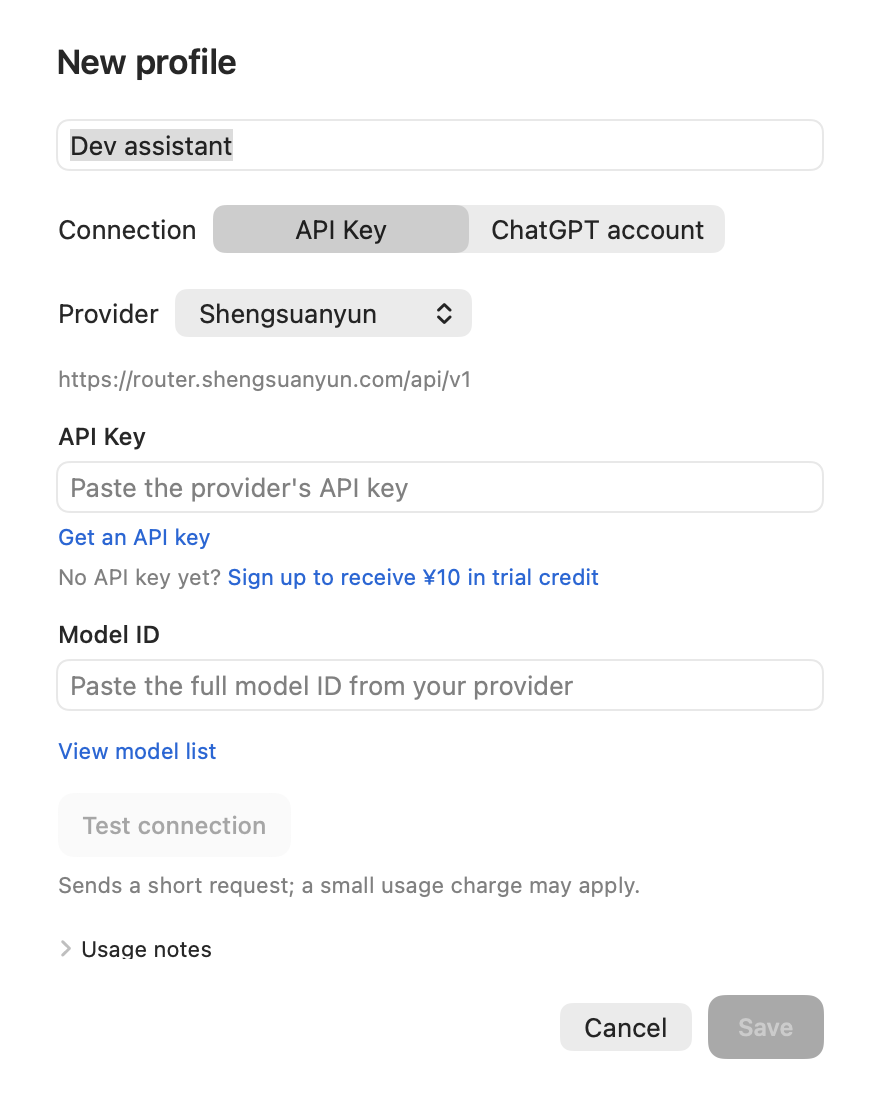
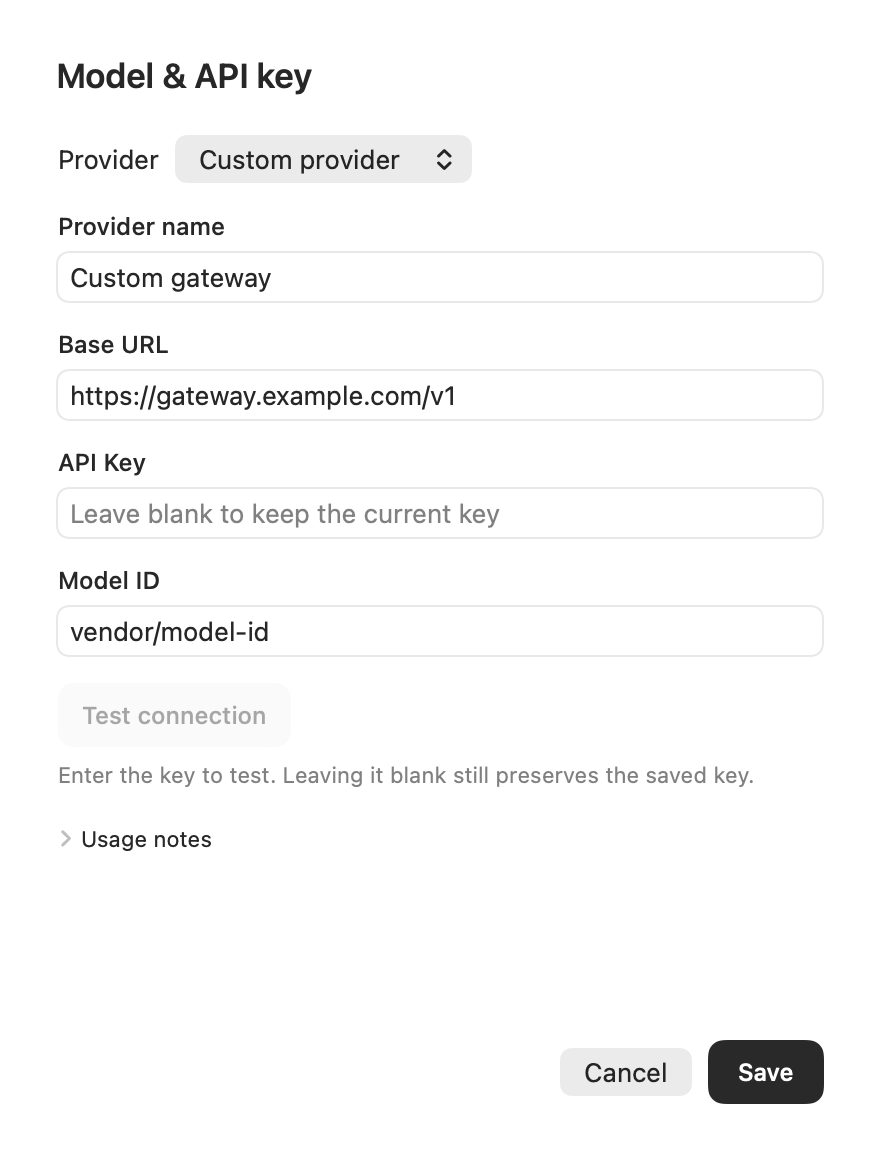
docs: make BYOK guidance provider-neutral

diff --git a/scripts/render-docs.swift b/scripts/render-docs.swift
@@ -40,10 +40,12 @@ struct DocumentationImages {
             MultiApplicationDashboard(codex: codex, claude: claude, workbuddy: workbuddy,
                                       wechat: wechat, selection: .constant(application))
         }
-        try render(dashboard(.codex), size: CGSize(width: 960, height: 600), to: output.appendingPathComponent("overview.png"))
-        try render(ProfileEditor(profile: nil, model: codex, name: Texts.t("开发助手", "Dev assistant")),
-                   size: CGSize(width: 440, height: 550), to: output.appendingPathComponent("api-key.png"))
-        try render(dashboard(.wechat), size: CGSize(width: 960, height: 600), to: output.appendingPathComponent("wechat.png"))
+        let apiOnly = CommandLine.arguments.contains("--api-only")
+        if !apiOnly { try render(dashboard(.codex), size: CGSize(width: 960, height: 600), to: output.appendingPathComponent("overview.png")) }
+        guard let apiProfile = codex.profiles.first(where: { $0.apiProvider != nil }) else { fatalError("Missing API example") }
+        try render(ProviderConnectionEditor(profile: apiProfile, model: codex),
+                   size: CGSize(width: 440, height: 580), to: output.appendingPathComponent("api-key.png"))
+        if !apiOnly { try render(dashboard(.wechat), size: CGSize(width: 960, height: 600), to: output.appendingPathComponent("wechat.png")) }
     }
 
     @MainActor private static func render<Content: View>(_ content: Content, size: CGSize, to url: URL) throws {

diff --git a/README.en.md b/README.en.md
@@ -68,22 +68,24 @@ This preview uses an ad-hoc signature and is not Apple-notarized. If macOS block
 
 A profile name is your label, not an authenticated account identity. “Running” only means the process exists; it does not confirm sign-in or a working model connection. Existing windows can be brought forward without importing their credentials or history.
 
-## API keys and custom models
+## BYOK: bring your own API key
 
 <p align="center">
-  <img src="docs/images/en/api-key.png" alt="API key profile form with provider, key, model ID and connection test" width="440">
+  <img src="docs/images/en/api-key.png" alt="BYOK settings with a custom provider, base URL, API key, model ID and connection test" width="440">
 </p>
 
-Choose **Shengsuanyun** for a preset endpoint or **Custom provider** for your own gateway. Paste a key and the full model ID supplied by your provider, then save the connection as a separate profile.
+ShadowApp supports **BYOK (Bring Your Own Key)**. Use your chosen provider or self-hosted gateway, provided its API and model are compatible with the target client.
+
+Choose **API Key → Custom provider**, then enter the provider name, base URL, API key and full model ID to save the connection as a separate profile.
 
 | Setting | Codex | Claude |
 | --- | --- | --- |
 | Required protocol | OpenAI **Responses API** | **Anthropic Messages API** |
-| Shengsuanyun base URL | `https://router.shengsuanyun.com/api/v1` | `https://router.shengsuanyun.com/api` |
+| Base URL | The Responses API base URL supplied by your provider | The Anthropic Messages root URL supplied by your provider, without `/v1` |
 | Model ID | Full model ID supported by the provider | Claude model or its gateway routing ID |
 | Where to start | Select **Codex** and create a new chat | Use the configured third-party inference provider |
 
-[Get a Shengsuanyun API key](https://console.shengsuanyun.com/user/keys) · [Browse model IDs](https://global.modelmesh.info/model)
+Get the API key, endpoint and model ID from your chosen provider's console and documentation.
 
 - **Try the connection.** Once the fields are complete, choose “Test connection”. This sends a short request and may incur a small charge. Saving alone does not run a test.
 - **Match the protocol.** A Chat Completions-only endpoint is not sufficient for Codex. Streaming and tool use must also be compatible; a basic connection test does not establish full feature support. Renaming a DeepSeek or GLM model to Claude will not make it compatible with Claude Desktop.

diff --git a/README.md b/README.md
@@ -66,22 +66,24 @@
 
 空间名称只是你自己的标签，不代表已经登录某个账号。「运行中」表示进程存在，不代表账号已登录或模型调用成功。已有窗口可以直接显示，ShadowApp 不自动导入其登录信息或聊天记录。
 
-## 使用 API Key 和自定义模型
+## BYOK：使用自己的 API Key
 
 <p align="center">
-  <img src="docs/images/zh/api-key.png" alt="新建 API Key 空间：供应商、Key、模型 ID 与测试连接" width="440">
+  <img src="docs/images/zh/api-key.png" alt="BYOK 配置：自定义供应商、接口地址、API Key、模型 ID 与测试连接" width="440">
 </p>
 
-选择 **胜算云** 使用预填地址，或选择 **自定义供应商** 填写自己的网关。粘贴 API Key 和供应商提供的完整模型 ID，即可保存为独立空间。
+ShadowApp 支持 **BYOK（Bring Your Own Key，自带 API Key）**：使用你选择的供应商或自建网关，只需接口和模型兼容对应客户端。
+
+在 **API Key → 自定义供应商** 中填写供应商名称、Base URL、API Key 和完整模型 ID，即可保存为独立空间。
 
 | 设置 | Codex | Claude |
 | --- | --- | --- |
 | 所需协议 | OpenAI **Responses API** | **Anthropic Messages API** |
-| 胜算云 Base URL | `https://router.shengsuanyun.com/api/v1` | `https://router.shengsuanyun.com/api` |
+| Base URL | 供应商提供的 Responses API 地址 | 供应商提供的 Anthropic Messages 根地址，不带 `/v1` |
 | 模型 ID | 供应商支持的完整模型 ID | Claude 模型或相应网关路由 ID |
 | 使用入口 | 打开后选择 **Codex**，新建聊天 | 使用已配置的第三方推理供应商 |
 
-[获取胜算云 API Key](https://console.shengsuanyun.com/user/keys) · [查看模型列表](https://global.modelmesh.info/model)
+API Key、接口地址和模型 ID 以你所用供应商的控制台和文档为准。
 
 - **先试再保存**：填写完整后可点「测试连接」。测试会发送一条简短请求，可能产生少量费用；保存本身不发起测试。
 - **协议要匹配**：只支持 Chat Completions 的接口不能直接用于 Codex。实际使用还需要流式输出、工具调用等兼容性；基础连接成功不代表全部功能可用。Claude 不支持把 DeepSeek / GLM 的名称改成 Claude 来使用。

diff --git a/docs/images/README.md b/docs/images/README.md
@@ -12,13 +12,15 @@ The other images render the production SwiftUI views with disposable example dat
 | --- | --- |
 | `overview.png` | 中文 README 首页实际界面图 / User-provided screenshot for the Chinese README |
 | `zh/overview.png`, `en/overview.png` | 应用侧栏与示例空间 / Sidebar and example profiles |
-| `zh/api-key.png`, `en/api-key.png` | 新建 API Key 空间 / API-key profile editor |
+| `zh/api-key.png`, `en/api-key.png` | 自定义供应商 BYOK 配置 / Custom-provider BYOK settings |
 | `zh/wechat.png`, `en/wechat.png` | 微信实验性空间 / Experimental WeChat profiles |
 
 在 macOS 项目根目录重新生成 / Regenerate from the project root on macOS:
 
 ```bash
 bash scripts/render-docs.sh
+# 仅更新 BYOK 配置图 / Update only the BYOK images
+bash scripts/render-docs.sh --api-only
 ```
 
 脚本编译视图渲染器，生成中英文图片；`~/ShadowApp-Preview` 只用于此过程并在结束时清理。如果该目录已经存在，脚本拒绝复用，避免修改已有数据。微信示例只创建管理记录，不创建应用副本或系统容器。未安装对应应用时，图标显示占位符。
